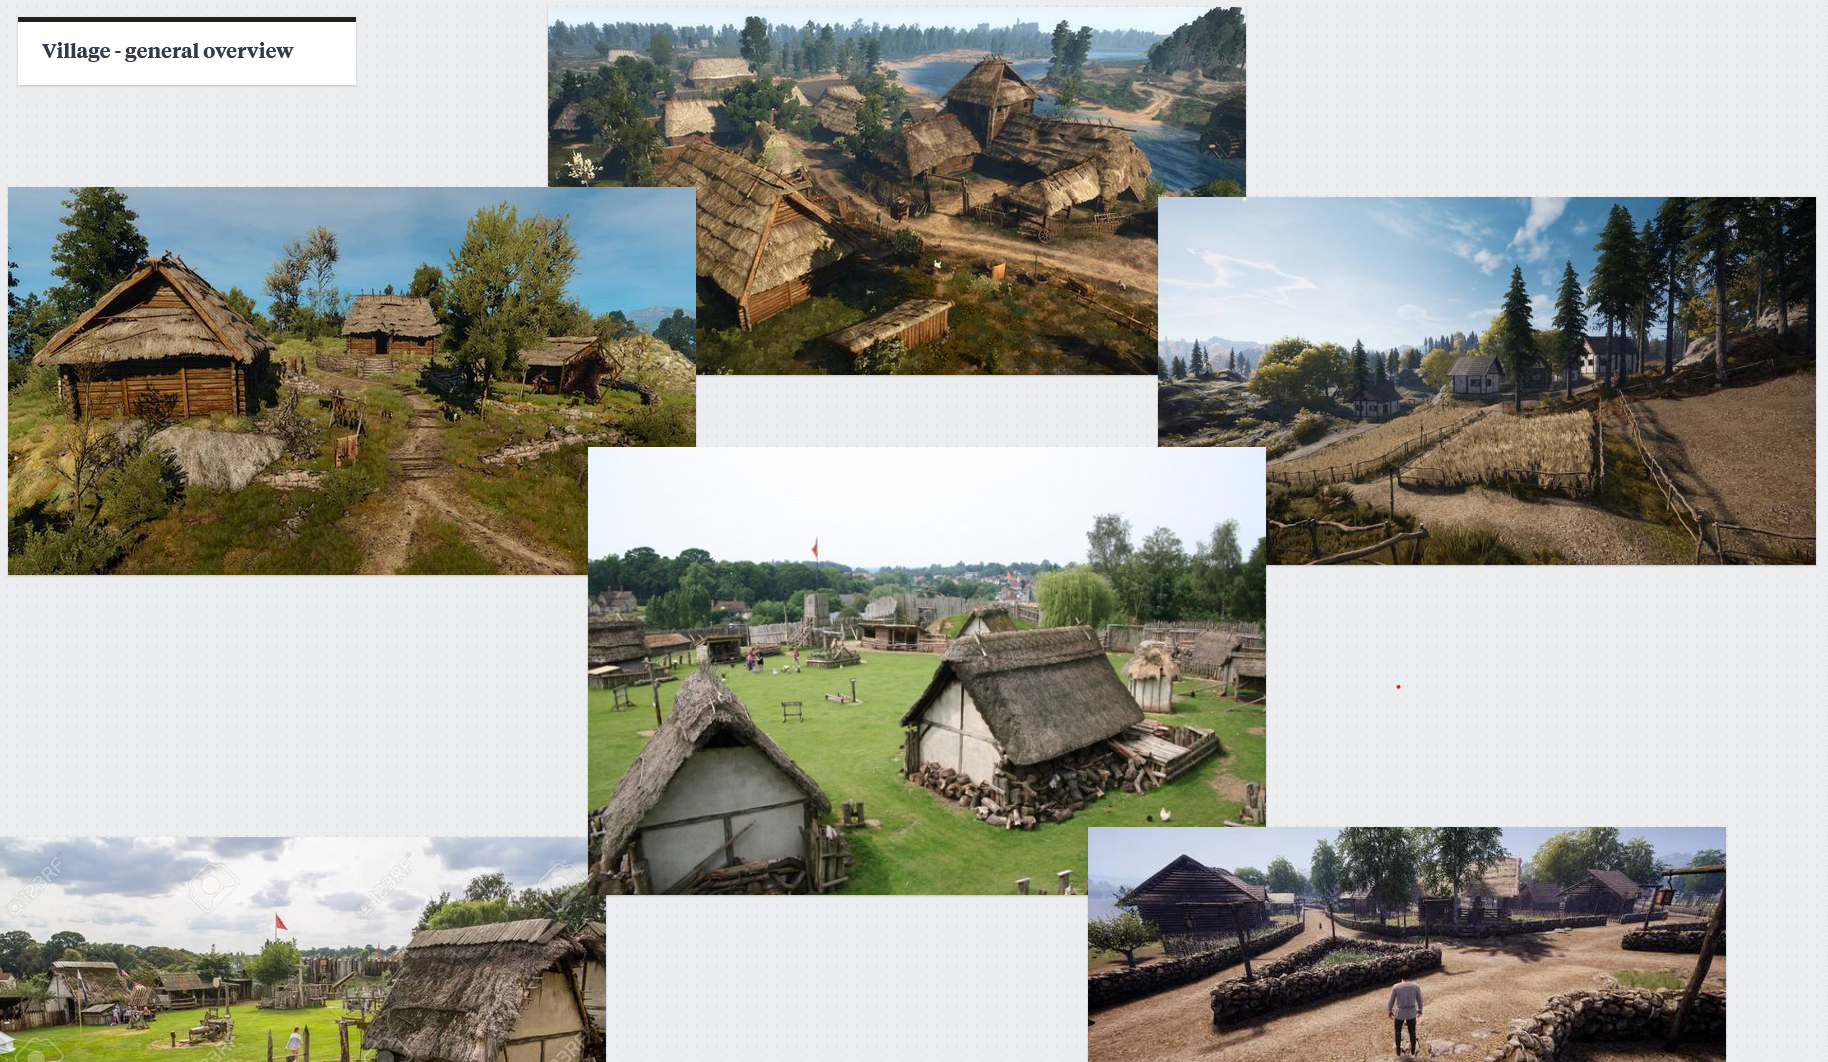
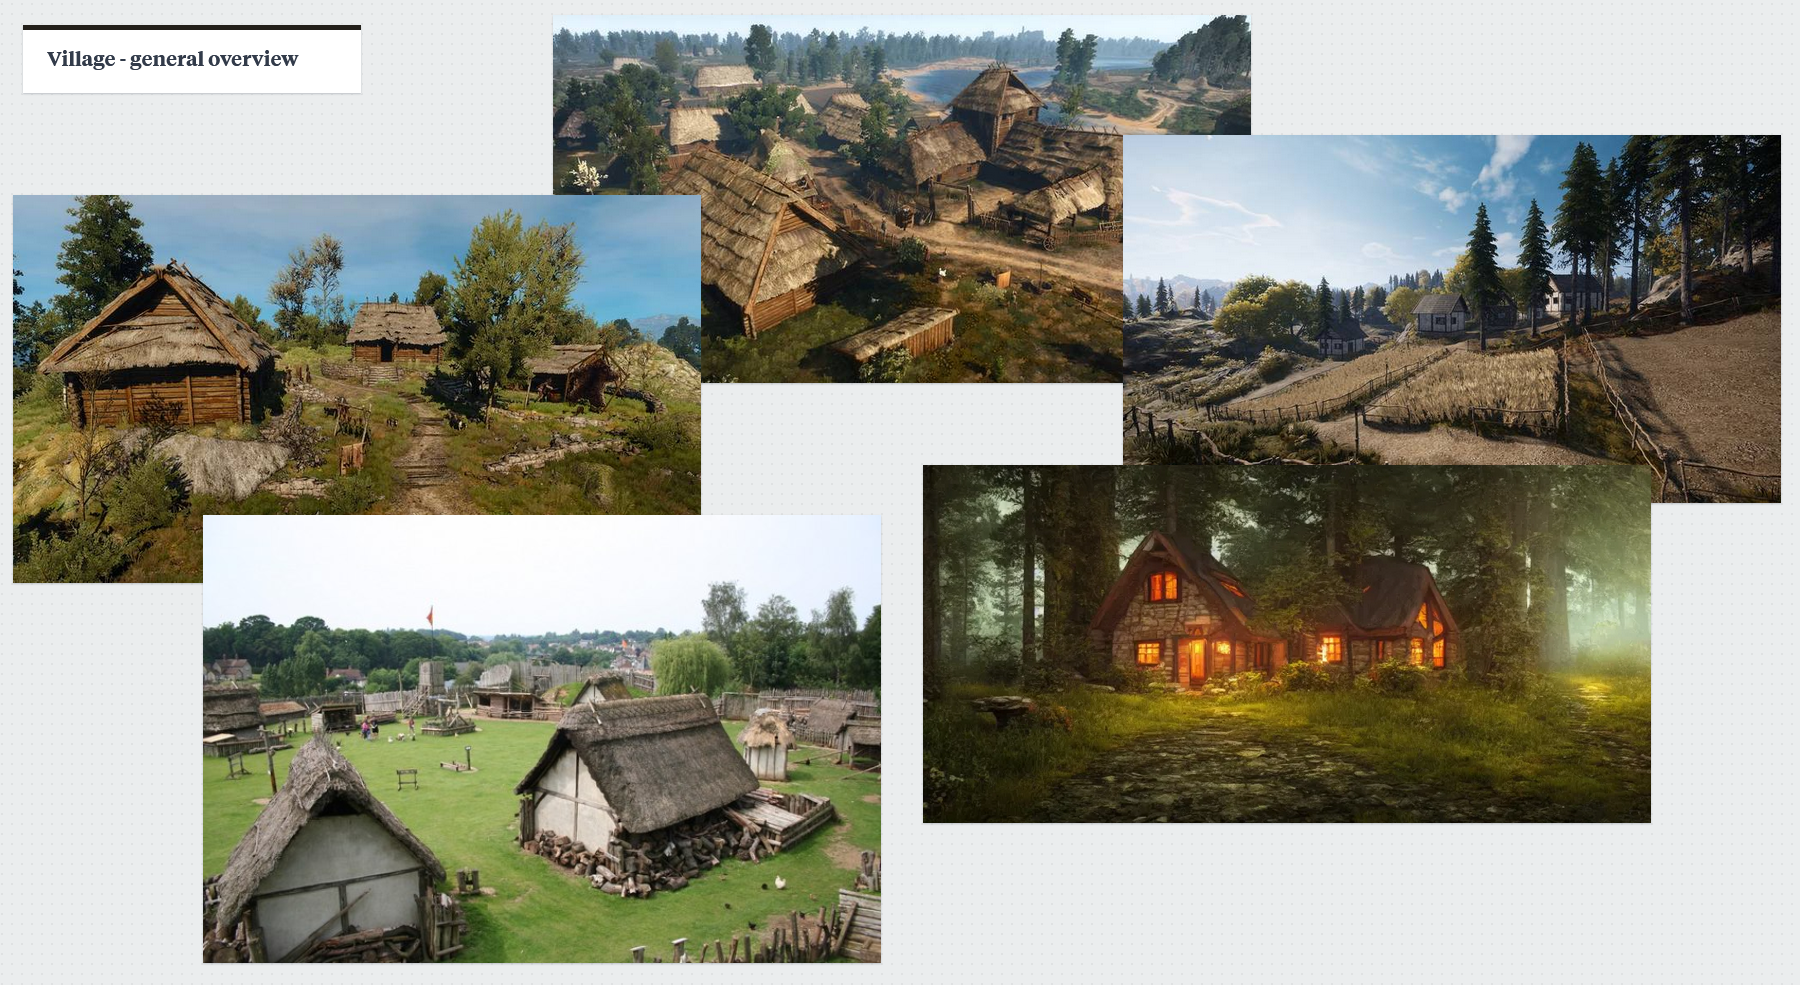
lk

diff --git a/_projects/2024-07-01-Enchanted-village-level-design.md b/_projects/2024-07-01-Enchanted-village-level-design.md
@@ -12,16 +12,18 @@ As this is my first playable project made with UE5 I used this opportunity to le
 
 ### Process
 
-#### Initial sketch
+#### Initial sketch & Inspiration
 
 I sketched the initial layout on a paper, which works well for me to jot basic ideas for a level I want to design.
 
 In early stages of the sketch I wanted to have a starting area where player can orient themselves and understand the basic gameplay mechanics, then move them into a a small settlement and lead them to a focal point elevated above the village.
 
-![](/images/portfolio/sketch.png)
-
-#### Setting up the environment
-![](/images/portfolio/earlyphase.png)
+<div class="gallery" data-columns="2">
+    <img src="/images/portfolio/sketch.png">
+    <img src="/images/portfolio/earlyphase.png">
+    <img src="/images/portfolio/inspiration.png">
+    
+</div>
 
 #### Iteration of focal points
 
